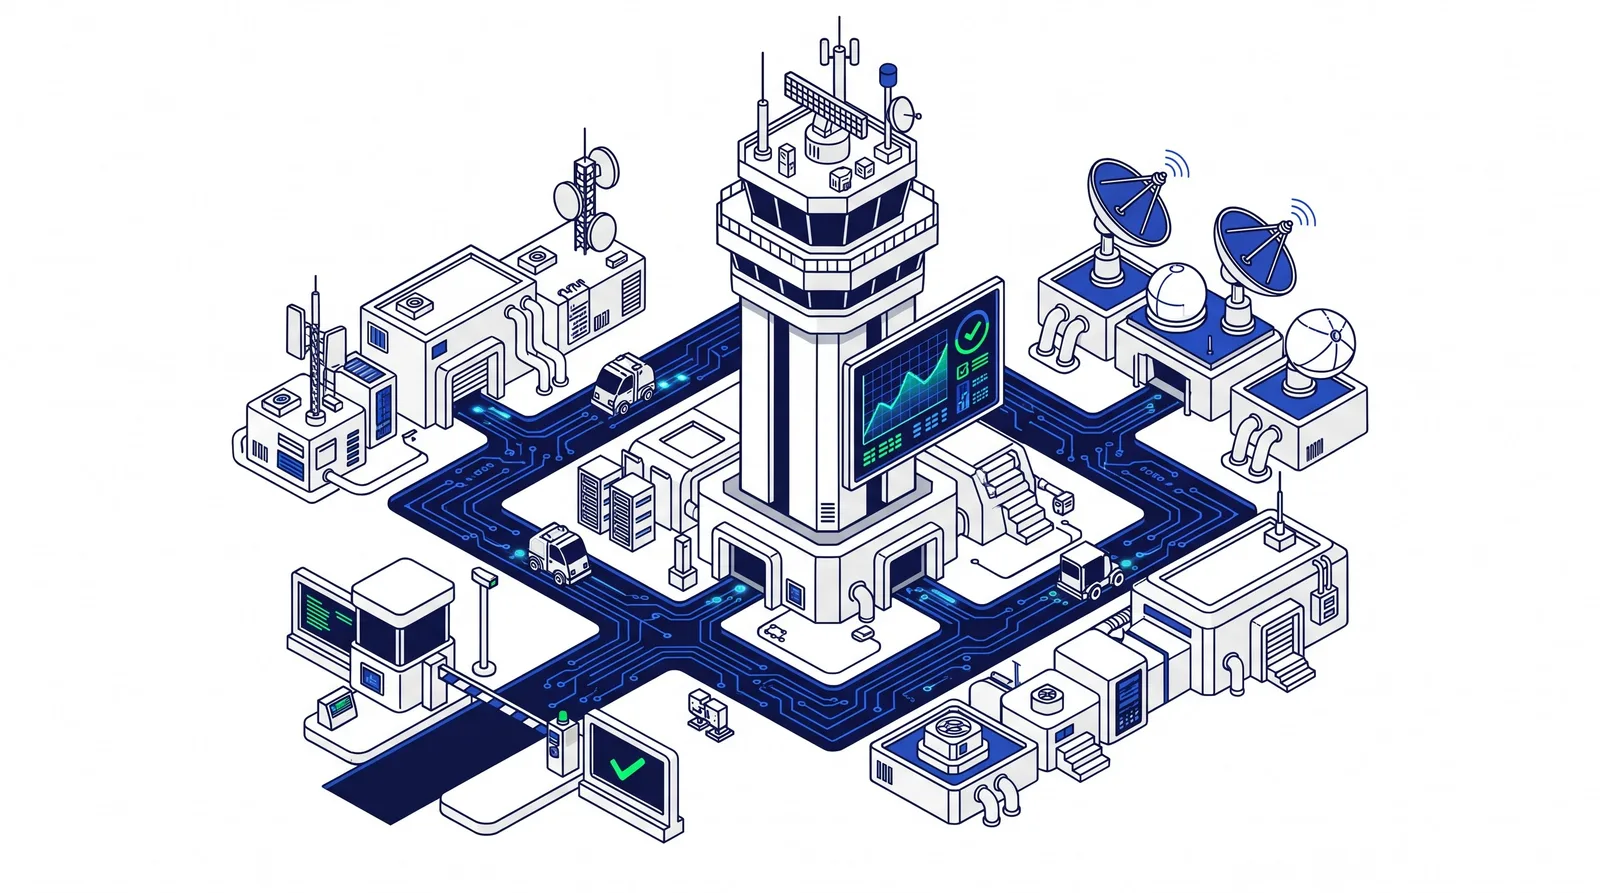
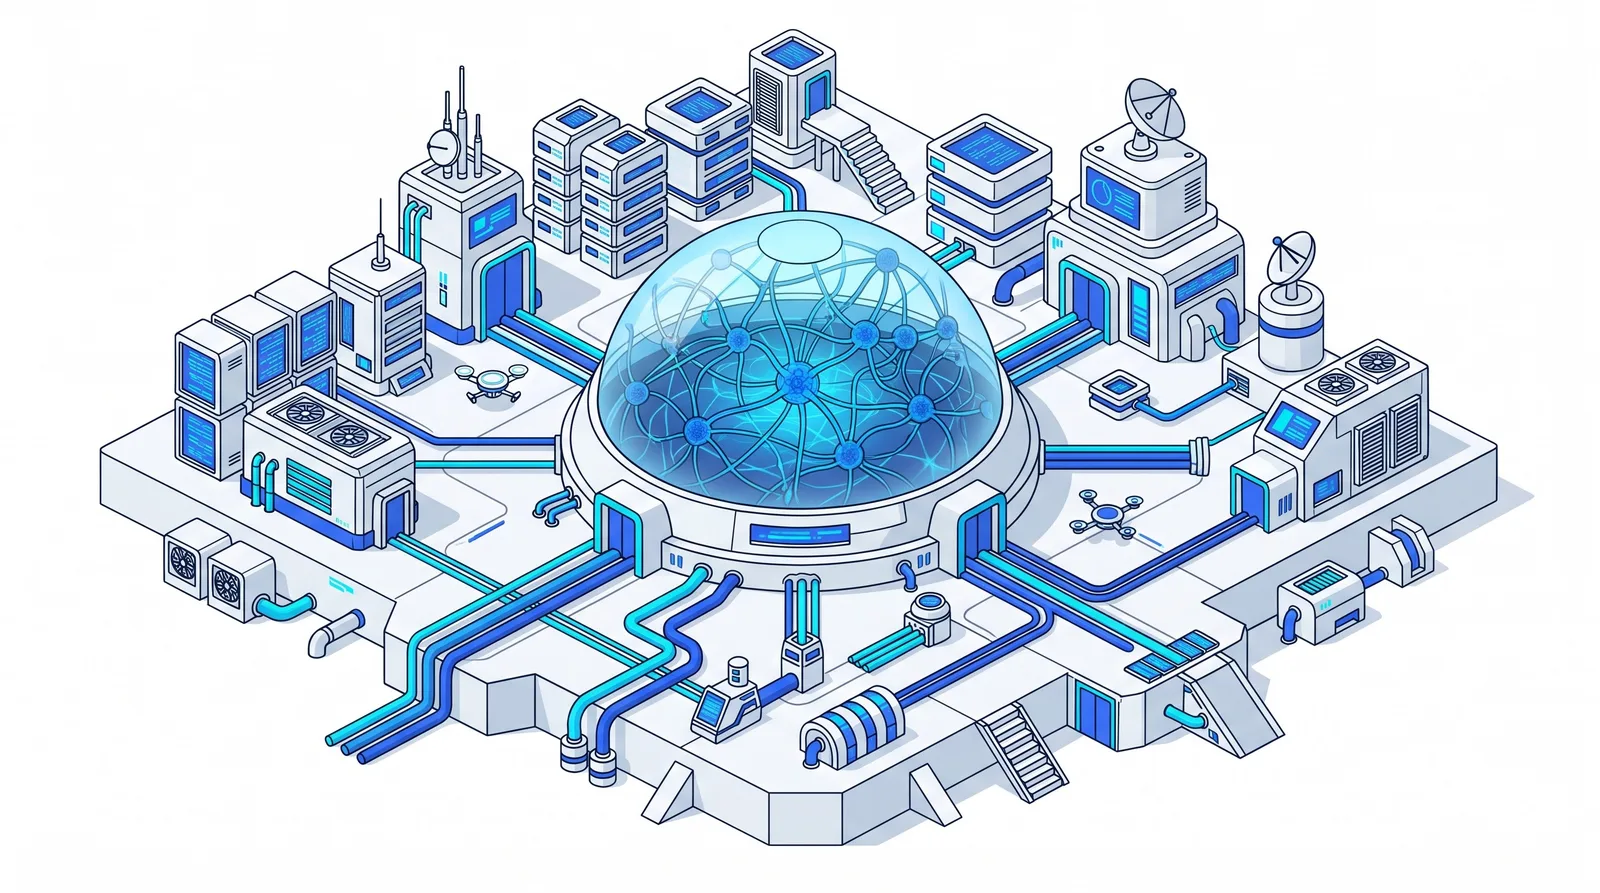
Add High Velocity dark band: four feature rows with count-up speed badges on obsidian

diff --git a/components/services/high-velocity.tsx b/components/services/high-velocity.tsx
@@ -1,0 +1,216 @@
+"use client"
+
+import Image from "next/image"
+import { useEffect, useRef } from "react"
+import {
+  animate,
+  motion,
+  useInView,
+  useReducedMotion,
+  type Variants,
+} from "framer-motion"
+import { Container } from "./container"
+
+/*
+ * S03 — High Velocity, the dark contrast band.
+ *
+ * Four feature rows on the obsidian canvas: white art plates, white
+ * titles, and a neon-cyan speed indicator badge per row. Numeric badges
+ * count up from zero when scrolled into view (framer `animate` on the
+ * text node); the MVP badge pops instead — it isn't a number. Everything
+ * is transform/opacity/text-only and reduced-motion renders final values
+ * statically.
+ */
+
+type Badge =
+  | { kind: "count"; to: number; decimals: number; unit: string; sr: string }
+  | { kind: "text"; text: string; sr: string }
+
+const features: Array<{
+  title: string
+  description: string
+  image: { src: string; alt: string }
+  badge: Badge
+}> = [
+  {
+    title: "60 FPS Web Apps",
+    description:
+      "Ultra-smooth React / Next.js / Three.js frontends built for maximum responsiveness.",
+    image: {
+      src: "/images/services/06-60fps-web-apps.webp",
+      alt: "Isometric illustration of a performance dashboard maxing its speedometer",
+    },
+    badge: { kind: "count", to: 60, decimals: 0, unit: "FPS", sr: "60 frames per second" },
+  },
+  {
+    title: "High-Velocity UI & Rapid Sprint",
+    description:
+      "Design-to-code execution with 48-hour turnarounds on component builds.",
+    image: {
+      src: "/images/services/08-high-velocity-ui.webp",
+      alt: "Isometric illustration of a UI assembly line — component blocks conveyor-belted into an interface",
+    },
+    badge: { kind: "count", to: 48, decimals: 0, unit: "H", sr: "48-hour turnaround" },
+  },
+  {
+    title: "Research Prototypes (R&D)",
+    description:
+      "Rapid MVP development and proof-of-concept testing for groundbreaking ideas.",
+    image: {
+      src: "/images/services/12-development.webp",
+      alt: "Isometric illustration of a code pipeline — an editor feeding neon tubes into a build-and-deploy machine",
+    },
+    badge: { kind: "text", text: "MVP", sr: "MVP prototype builds" },
+  },
+  {
+    title: "Continuous Maintenance & Monitoring",
+    description:
+      "99.9% uptime SLA monitoring, live dashboards, and regular performance audits.",
+    image: {
+      src: "/images/services/14-maintenance.webp",
+      alt: "Isometric illustration of a monitored neural facility — a glowing network dome watched over by server racks",
+    },
+    badge: { kind: "count", to: 99.9, decimals: 1, unit: "%", sr: "99.9 percent uptime" },
+  },
+]
+
+const listStagger: Variants = {
+  hidden: {},
+  show: { transition: { staggerChildren: 0.1 } },
+}
+
+const rowReveal: Variants = {
+  hidden: { opacity: 0, y: 24 },
+  show: {
+    opacity: 1,
+    y: 0,
+    transition: { duration: 0.6, ease: [0.22, 1, 0.36, 1] },
+  },
+}
+
+const badgePop: Variants = {
+  hidden: { opacity: 0, scale: 0.85 },
+  show: {
+    opacity: 1,
+    scale: 1,
+    transition: { duration: 0.45, ease: [0.22, 1, 0.36, 1], delay: 0.2 },
+  },
+}
+
+/** Counts from 0 to `to` once the element scrolls into view. */
+function CountUp({ to, decimals }: { to: number; decimals: number }) {
+  const ref = useRef<HTMLSpanElement>(null)
+  const inView = useInView(ref, { once: true, margin: "-40px" })
+  const reduced = useReducedMotion()
+
+  useEffect(() => {
+    if (!inView || !ref.current) return
+    if (reduced) {
+      ref.current.textContent = to.toFixed(decimals)
+      return
+    }
+    const controls = animate(0, to, {
+      duration: 1.4,
+      ease: [0.22, 1, 0.36, 1],
+      onUpdate: (v) => {
+        if (ref.current) ref.current.textContent = v.toFixed(decimals)
+      },
+    })
+    return () => controls.stop()
+  }, [inView, to, decimals, reduced])
+
+  return <span ref={ref}>0</span>
+}
+
+function SpeedBadge({ badge }: { badge: Badge }) {
+  return (
+    <motion.div
+      variants={badgePop}
+      className="inline-flex min-w-[7.5rem] flex-col items-center rounded-xl border border-neon/30 bg-neon/5 px-5 py-4"
+    >
+      <span
+        aria-hidden="true"
+        className="font-mono text-3xl font-semibold tracking-tight text-neon tabular-nums [text-shadow:0_0_18px_rgba(0,240,255,0.45)]"
+      >
+        {badge.kind === "count" ? (
+          <CountUp to={badge.to} decimals={badge.decimals} />
+        ) : (
+          badge.text
+        )}
+      </span>
+      {badge.kind === "count" && (
+        <span
+          aria-hidden="true"
+          className="mt-1 font-mono text-[10px] tracking-[0.22em] text-neon/70 uppercase"
+        >
+          {badge.unit}
+        </span>
+      )}
+      <span className="sr-only">{badge.sr}</span>
+    </motion.div>
+  )
+}
+
+export function HighVelocity() {
+  const reduced = useReducedMotion()
+
+  return (
+    <section
+      id="high-velocity"
+      className="scroll-mt-24 border-y border-white/10 bg-obsidian py-20 md:py-28"
+    >
+      <Container>
+        <header className="mb-12 max-w-3xl md:mb-16">
+          <p className="font-mono text-[11px] tracking-[0.18em] text-neon uppercase">
+            High velocity
+          </p>
+          <h2 className="mt-4 text-4xl leading-[1.08] font-medium tracking-[-0.02em] font-[family-name:var(--font-display)] text-white md:text-5xl">
+            Fast is a feature.
+          </h2>
+          <p className="mt-4 text-base leading-relaxed text-white/60 md:text-lg">
+            The numbers we hold ourselves to — in frames, hours and uptime.
+          </p>
+        </header>
+
+        <motion.ul
+          variants={listStagger}
+          initial={reduced ? false : "hidden"}
+          whileInView="show"
+          viewport={{ once: true, margin: "-60px" }}
+          className="divide-y divide-white/10"
+        >
+          {features.map((feature) => (
+            <motion.li
+              key={feature.title}
+              variants={rowReveal}
+              className="flex flex-col gap-6 py-8 first:pt-0 md:grid md:grid-cols-[280px_1fr_auto] md:items-center md:gap-10 md:py-10"
+            >
+              <div className="relative aspect-video w-full overflow-hidden rounded-xl border border-white/15 bg-white">
+                <Image
+                  src={feature.image.src}
+                  alt={feature.image.alt}
+                  fill
+                  sizes="(min-width: 768px) 280px, 100vw"
+                  className="object-cover mix-blend-multiply"
+                />
+              </div>
+
+              <div>
+                <h3 className="text-xl font-medium tracking-[-0.01em] text-white md:text-2xl">
+                  {feature.title}
+                </h3>
+                <p className="mt-1.5 max-w-xl text-sm leading-relaxed text-white/60 md:text-[15px]">
+                  {feature.description}
+                </p>
+              </div>
+
+              <div className="md:justify-self-end">
+                <SpeedBadge badge={feature.badge} />
+              </div>
+            </motion.li>
+          ))}
+        </motion.ul>
+      </Container>
+    </section>
+  )
+}

diff --git a/components/services/__tests__/high-velocity.test.tsx b/components/services/__tests__/high-velocity.test.tsx
@@ -1,0 +1,72 @@
+import {
+  describe,
+  it,
+  expect,
+  renderWithProviders,
+  screen,
+} from "@/test/integration"
+import { HighVelocity } from "../high-velocity"
+
+// jsdom has no IntersectionObserver; framer-motion's whileInView/useInView
+// need one to attach to. A no-op stub keeps the component renderable —
+// count-up badges stay at their initial "0" in this environment.
+class IntersectionObserverStub {
+  observe() {}
+  unobserve() {}
+  disconnect() {}
+  takeRecords() {
+    return []
+  }
+}
+if (typeof globalThis.IntersectionObserver === "undefined") {
+  ;(
+    globalThis as unknown as { IntersectionObserver: unknown }
+  ).IntersectionObserver = IntersectionObserverStub
+}
+
+// The dark obsidian band: four feature rows with speed-indicator badges.
+describe("HighVelocity", () => {
+  it("renders the section header", () => {
+    renderWithProviders(<HighVelocity />)
+
+    expect(screen.getByText("High velocity")).toBeInTheDocument()
+    expect(
+      screen.getByRole("heading", { name: "Fast is a feature." })
+    ).toBeInTheDocument()
+  })
+
+  it("renders all four feature rows", () => {
+    renderWithProviders(<HighVelocity />)
+
+    const titles = [
+      "60 FPS Web Apps",
+      "High-Velocity UI & Rapid Sprint",
+      "Research Prototypes (R&D)",
+      "Continuous Maintenance & Monitoring",
+    ]
+    titles.forEach((title) => {
+      expect(screen.getByRole("heading", { name: title })).toBeInTheDocument()
+    })
+
+    expect(screen.getByText(/Ultra-smooth React/i)).toBeInTheDocument()
+    expect(screen.getByText(/48-hour turnarounds/i)).toBeInTheDocument()
+    expect(screen.getByText(/Rapid MVP development/i)).toBeInTheDocument()
+    expect(screen.getByText(/99.9% uptime SLA/i)).toBeInTheDocument()
+  })
+
+  it("renders the four speed badges with accessible values", () => {
+    renderWithProviders(<HighVelocity />)
+
+    expect(screen.getByText("60 frames per second")).toBeInTheDocument()
+    expect(screen.getByText("48-hour turnaround")).toBeInTheDocument()
+    expect(screen.getByText("MVP prototype builds")).toBeInTheDocument()
+    expect(screen.getByText("99.9 percent uptime")).toBeInTheDocument()
+  })
+
+  it("renders the four illustrations and anchors at #high-velocity", () => {
+    const { container } = renderWithProviders(<HighVelocity />)
+
+    expect(screen.getAllByRole("img")).toHaveLength(4)
+    expect(container.querySelector("#high-velocity")).not.toBeNull()
+  })
+})

diff --git a/app/services/page.tsx b/app/services/page.tsx
@@ -2,6 +2,7 @@ import type { Metadata } from "next"
 import { Hero } from "@/components/services/hero"
 import { IntelligentEngineering } from "@/components/services/intelligent-engineering"
 import { DesignBuild } from "@/components/services/design-build"
+import { HighVelocity } from "@/components/services/high-velocity"
 import { ServicesHero } from "@/components/sections/services-hero"
 import { ServicesModules } from "@/components/sections/services-modules"
 import { Services } from "@/components/sections/services"
@@ -29,25 +30,28 @@ const ServicesPage = () => {
       {/* S02 — Design & build, the secondary pillar */}
       <DesignBuild />
 
-      {/* S03 — The promise, plus the proof strip */}
+      {/* S03 — High velocity: the dark contrast band */}
+      <HighVelocity />
+
+      {/* S04 — The promise, plus the proof strip */}
       <ServicesHero />
 
-      {/* S04 — The intelligent engine deep dive: modules + Figure 1 */}
+      {/* S05 — The intelligent engine deep dive: modules + Figure 1 */}
       <ServicesModules />
 
-      {/* S05 — Design & build, the six disciplines */}
+      {/* S06 — Design & build, the six disciplines */}
       <Services />
 
-      {/* S06 — Guardrails you never have to think about */}
+      {/* S07 — Guardrails you never have to think about */}
       <ServicesGuardrails />
 
-      {/* S07 — The cadence: waterfall + stage rail */}
+      {/* S08 — The cadence: waterfall + stage rail */}
       <ServicesProcess />
 
-      {/* S08 — The hard questions */}
+      {/* S09 — The hard questions */}
       <ServicesFaq />
 
-      {/* S09 — Scoping-call band */}
+      {/* S10 — Scoping-call band */}
       <ServicesCta />
 
       <CtaBand
